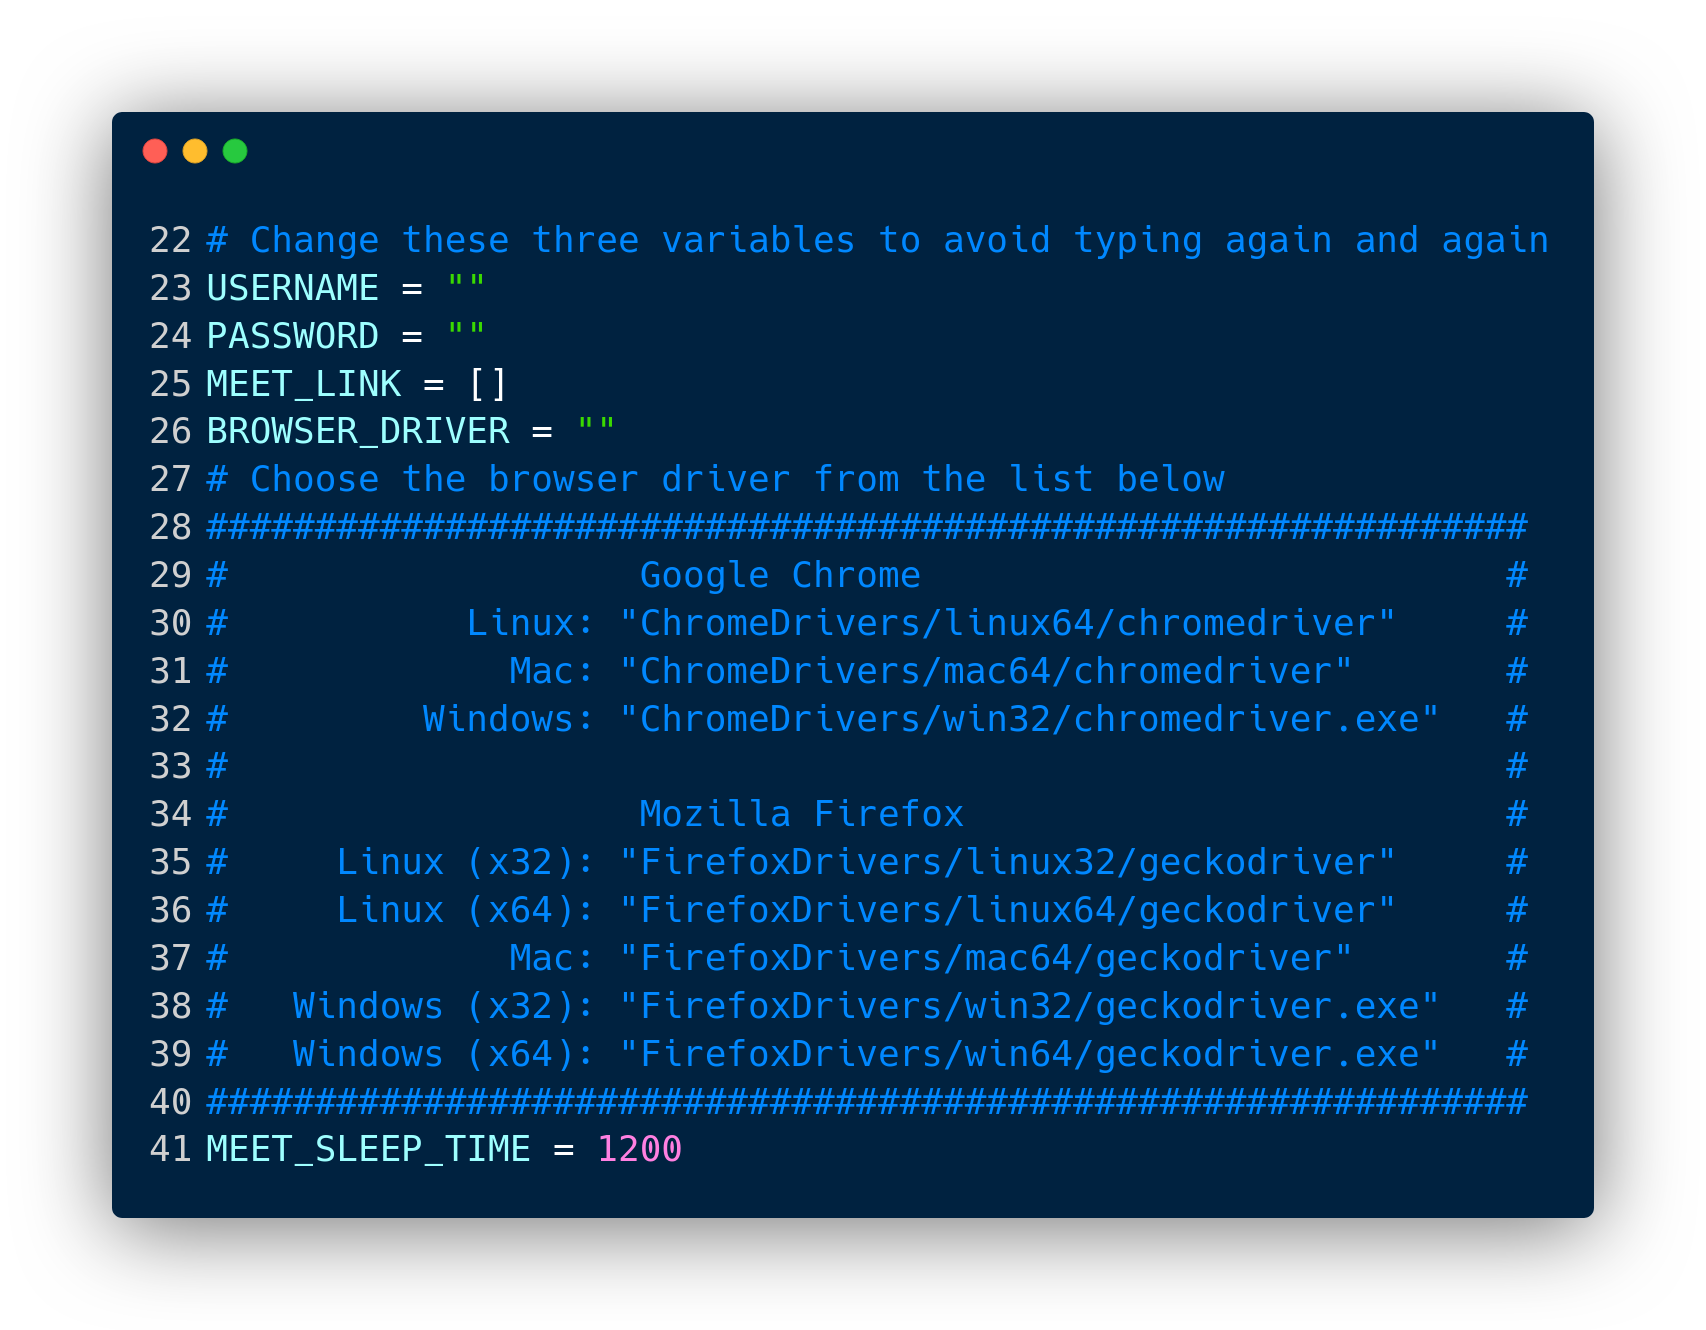
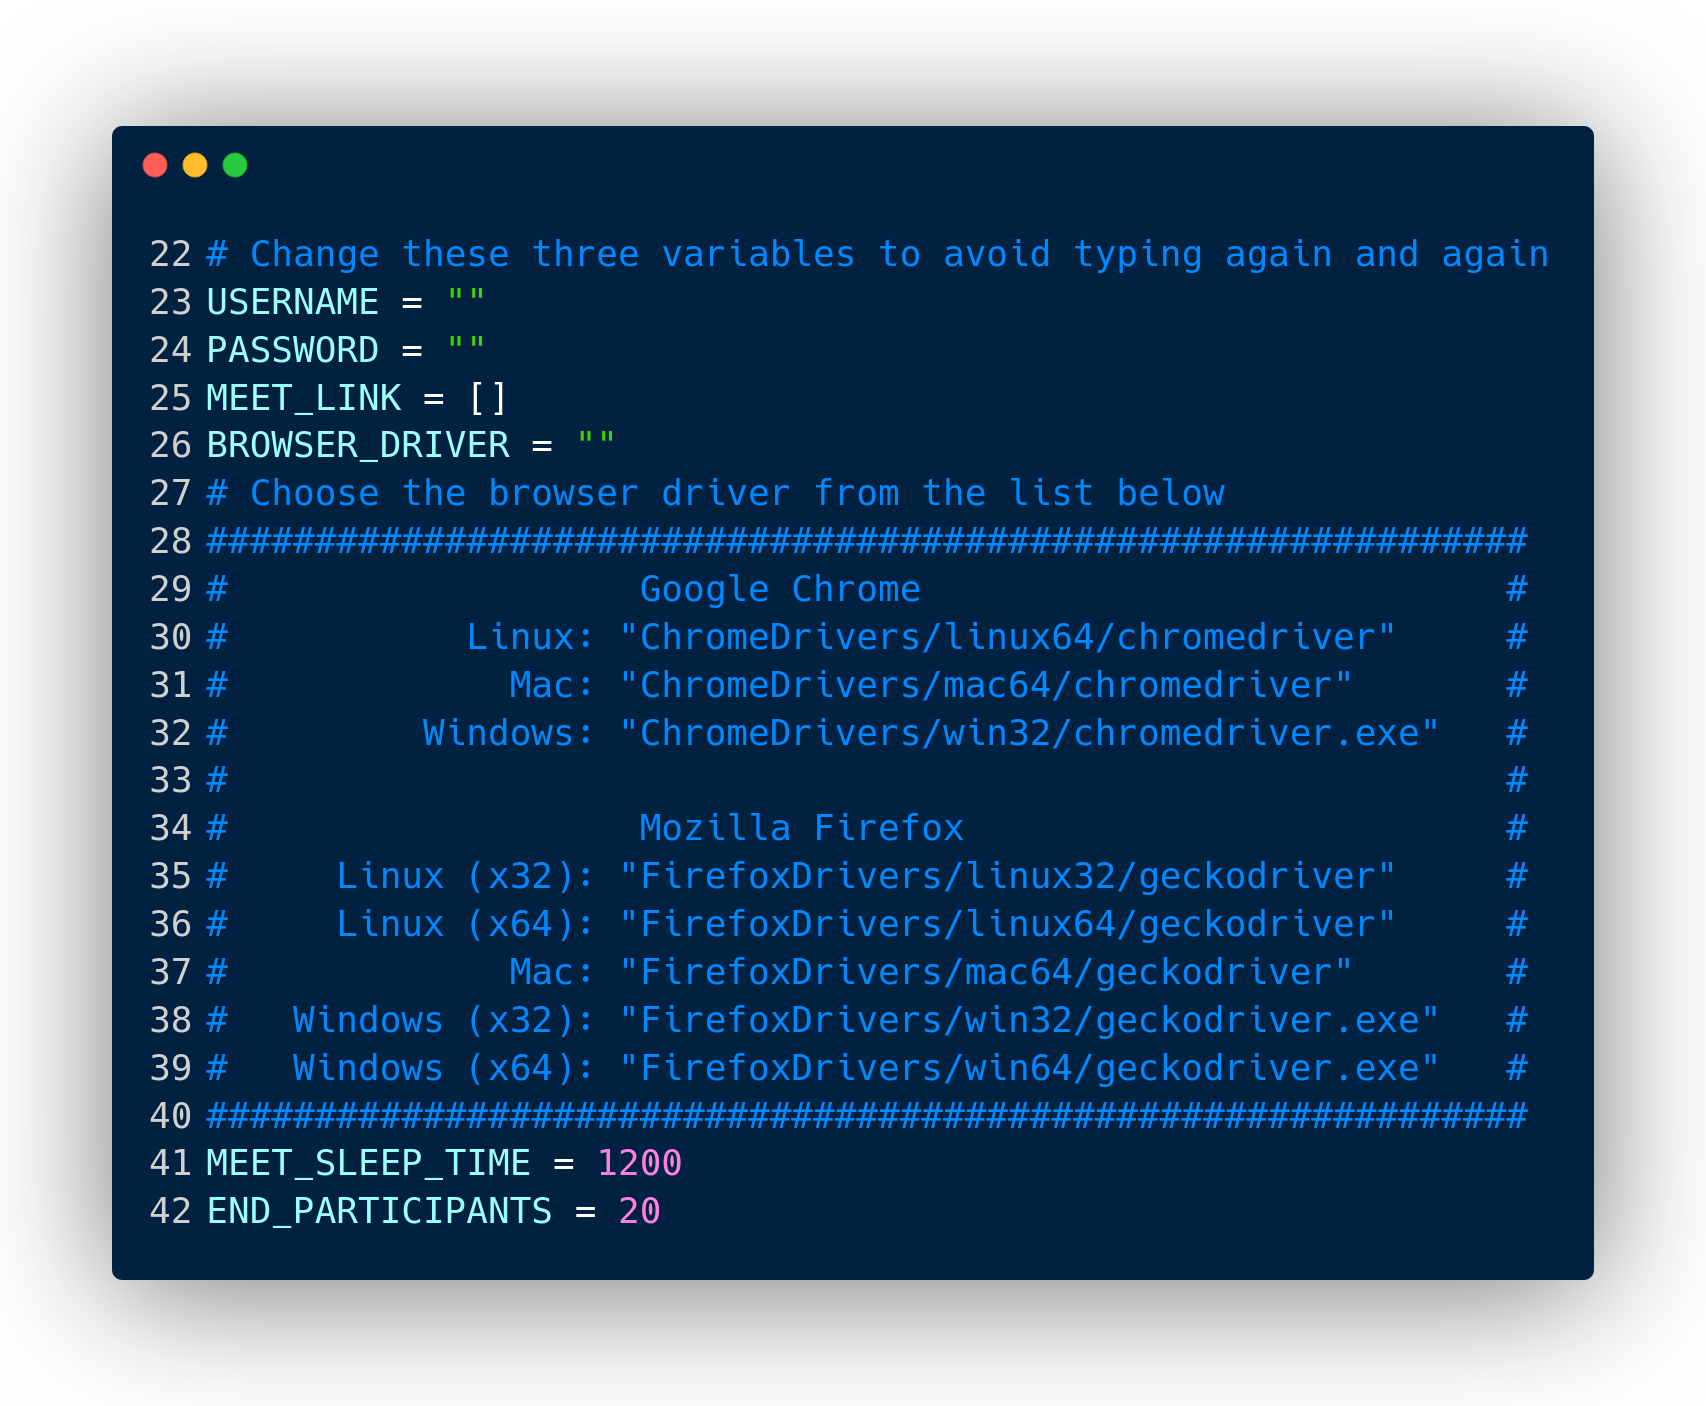
updated readme

Changed region(s): [[0.0621, 0.185, 0.932, 0.9248], [0.0621, 0.0617, 0.932, 0.1233]]

diff --git a/README.md b/README.md
@@ -9,6 +9,8 @@
 - [Features](#features)
 - [How to use](#how-to-use)
 - [Tips to use MeetGod Easily and Efficiently](#tips-to-use-meetgod-easily-and-efficiently)
+- [How MeetGod works behind the scenes](#how-meetgod-works-behind-the-scenes)
+- [Dependencies](#dependencies)
 
 ## Description
 
@@ -20,6 +22,7 @@ A cross-platform super dope tool that attends Google Meet meetings for you while
 
 - Easy to use.
 - Schedules the meetings and joins automatically on time.
+- Automatically disables camera and microphone and mutes the browser
 - Sorts the meetings schedule with respect to time.
 - You can add, remove, modify any meeting that is scheduled
 - Has a user-friendly menu.
@@ -72,5 +75,23 @@ Even though everything will be taken care when the Bot.py is executed, still her
 3. Enter the meet link and the time to join the meet(in 24 hour format) as one string in the list variable `MEET_LINK` on line 25. For example: `MEET_LINK = ["https://meet.google.com/uza-jkad-qwe 10:30:00", "https://meet.google.com/qwe-dsds-fio 16:00:00"]`
 4. Choose the browser driver based on your system and browser and put it in the `BROWSER_DRIVER` variable on line 26 (Take help from the list given below the variable)
 5. By default the bot sleeps for 20 mins after entering the meeting and then starts checking if the meeting has ended. You can change the default sleeping time by changing the `MEET_SLEEP_TIME` variable on line 41. (By default 1200secs = 20mins)
+6. After the bot finishes sleeping for the certain amount of time as mentioned in the above point, it regularly checks for the number of participants in the meetings and leaves when their number is less than a particular value (20 by default). You can change this value by changing the varibale `END_PARTICIPANTS` on line 42
 
 ![substitution](images/substitutes.png)
+
+## How MeetGod works behind the scenes
+
+If no variables are changed, as discussed [tips](#tips-to-use-meetgod-easily-and-efficiently), then upon execution, it prompts user to provide all the details (email, password, meeting's schedule and browser information). Else if variables are changed by the user, then it straight away starts the meeting process.
+
+It first sorts all the meetings provided by the user (with respect to time), then it starts a new thread that calculates the time between the next meeting and sleeps for that amount of time. When the meeting has started, it navigates to the meeting's link, disables camera and microphone, mutes the browser and then joins the meeting. After joining the meeting it sleeps for a certain amount of time (20 mins by default) and then starts checking the number of people present in the meet periodically. If at some point, the number of people present in the meet is less than a certain value (20 by default), then it leaves the meeting and starts the whole process again for the next meeting (if any).
+
+Since the process mentioned above is happening on a different thread, you can still control the bot and pass various commands (as mentioned in the main menu), even if it's waiting for a meeting or attending one, and it follow all your orders. You can make the bot end the meeting (if any), modify any meeting's link or time, delete any meeting, add more meetings (even after all the meetings in the schedule are over) and see the current bot status (i.e. waiting for meeting, in meetings, idol)
+
+## Dependencies
+
+These are the dependencies that will be installed from the `requirements.txt` file
+
+- **selenium** (for browser automation)
+- **datetime** (for scheduling)
+- **termcolor** (for various colour outputs)
+- **requests** (for cheking for MeetGod Updates)
